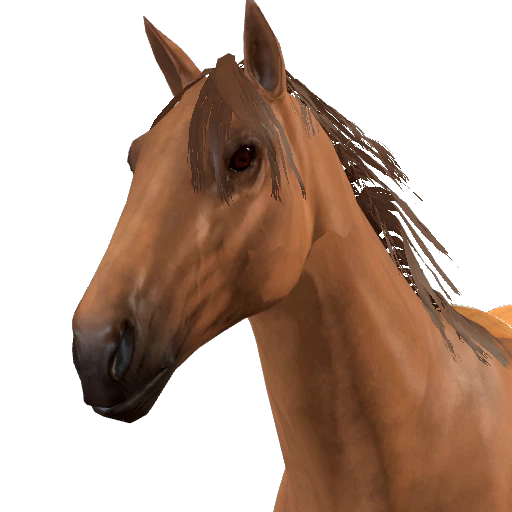
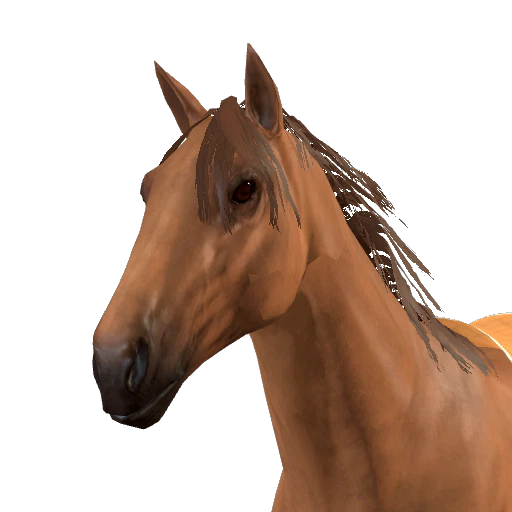
Show each podium horse's whole face in its results band
The head close-ups filled the band at nearly twice its height, so only the
ears and forehead showed. The band now sets the picture from ear tips to
chin, and the close-ups are framed with room above the ears, which the
corrected idle pose had pushed against the top edge.

diff --git a/src/podium.css b/src/podium.css
@@ -21,7 +21,7 @@
 .podium-cutin.place-1 strong{font-size:31px}
 .podium-number{display:grid;place-items:center;flex-shrink:0;width:26px;height:28px;border-radius:5px;background:var(--horse);font-size:17px;font-style:normal;color:white;text-shadow:none}
 .podium-cutin small{font-size:8px;letter-spacing:2px;color:#efe4c4}
-.podium-cutin img{position:absolute;right:max(3%,calc(50% - 360px));top:-18%;height:190%;transform:skewY(4deg);filter:drop-shadow(-4px 4px 8px #0008);animation:cutin-head .6s cubic-bezier(.2,.9,.25,1.15) both;animation-delay:inherit}
+.podium-cutin img{position:absolute;right:max(3%,calc(50% - 360px));top:-9%;height:124%;transform:skewY(4deg);filter:drop-shadow(-4px 4px 8px #0008);animation:cutin-head .6s cubic-bezier(.2,.9,.25,1.15) both;animation-delay:inherit}
 @keyframes cutin-left{from{transform:translateX(-110%) skewY(-4deg)}to{transform:skewY(-4deg)}}
 @keyframes cutin-right{from{transform:translateX(110%) skewY(-4deg)}to{transform:skewY(-4deg)}}
 @keyframes cutin-head{from{opacity:0;transform:translateX(24px) scale(1.2) skewY(4deg)}to{opacity:1;transform:skewY(4deg)}}
